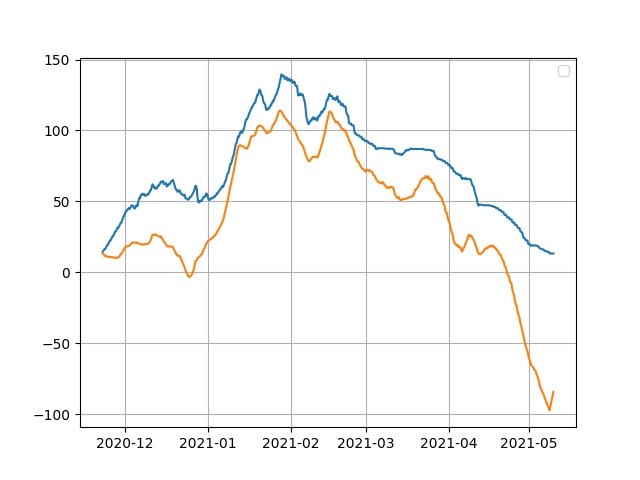
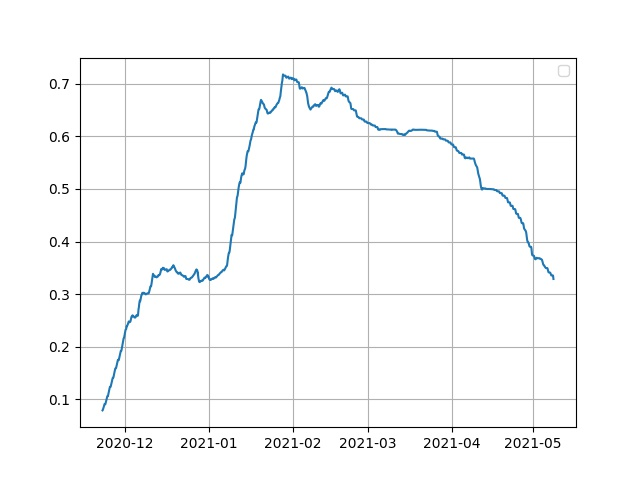
Update coeefs

diff --git a/src/plots/compare_func.py b/src/plots/compare_func.py
@@ -74,10 +74,12 @@ if __name__ == "__main__":
 
         plt.figure()
         x = df.time
-        y1 = df.iceV
+        y1 = df.iceV / df.SA
         y2 = df.dis_iceV
+        y3 = df.SA
         plt.plot(x, y1)
-        plt.plot(x, y2)
+        # plt.plot(x, y2)
+        # plt.plot(x, y3)
         plt.legend()
         plt.grid()
         plt.savefig(FOLDER["sim"] + "dis.jpg")
